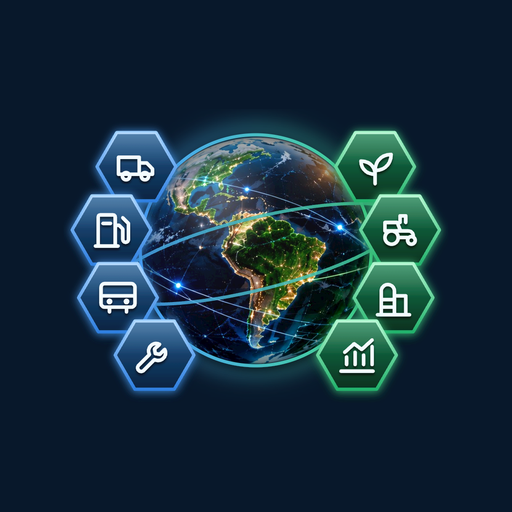
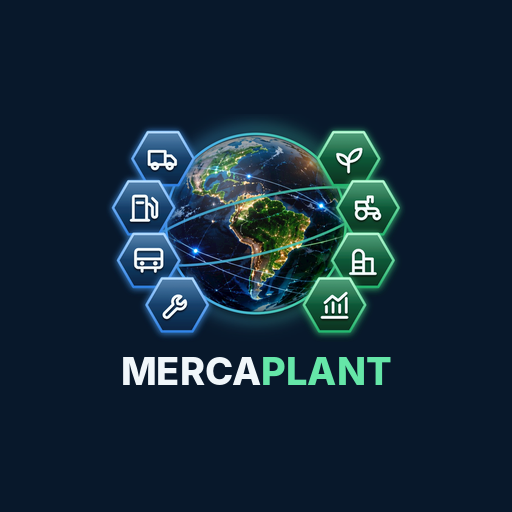
0.41.0-beta1: ícone MercaPlant, enviar PDF e aviso de versão nova do APK
- ícones (PWA, maskable e Android adaptativo) com o globo e o nome MERCAPLANT
- "Enviar PDF (WhatsApp)": AndroidBridge.sharePdf (FileProvider + ACTION_SEND) e Web Share API com arquivo; sem suporte, baixa
- APK confere releases/latest do GitHub e mostra aviso com link direto; workflow publica o APK em Releases a cada push na main
- assinatura fixa opcional via segredos do GitHub
- testes: envio do PDF, comparação de versões e versão do menu = versão do APK

Claude-Session: https://claude.ai/code/session_01RTpXCU27BZdFPunpuvUGwy

Changed region(s): [[0.125, 0.25, 0.875, 0.7812]]

diff --git a/app/src/main/assets/www/app.js b/app/src/main/assets/www/app.js
@@ -720,7 +720,7 @@ function dadosRelatorio() {
 }
 VIEWS.relatorios = () => {
   const {from, ops, byType, maxType, hoursBy, maxH, consumption, custosManut, maintCost, outrosGastos, area} = dadosRelatorio();
-  return head('Relatórios', `Resumo dos últimos ${reportDays} dias (desde ${fmtDate(from)})`, btn('Baixar relatório (PDF)', 'relatorio-pdf') + btn('Exportar operações (CSV)', 'csv', 'operations', 'secondary') + btn('Exportar estoque (CSV)', 'csv', 'stock', 'secondary')) +
+  return head('Relatórios', `Resumo dos últimos ${reportDays} dias (desde ${fmtDate(from)})`, btn('Baixar relatório (PDF)', 'relatorio-pdf') + btn('Enviar PDF (WhatsApp)', 'relatorio-pdf-enviar', '', 'secondary') + btn('Exportar operações (CSV)', 'csv', 'operations', 'secondary') + btn('Exportar estoque (CSV)', 'csv', 'stock', 'secondary')) +
     `<div class="filters">${[7, 30, 90, 365].map(d => `<button class="${d === reportDays ? 'active' : ''}" data-act="rep-days" data-id="${d}">${d === 365 ? '12 meses' : d + ' dias'}</button>`).join('')}</div>
     <section class="kpis">
       <article class="card kpi"><div class="label">Operações no período</div><div class="value">${ops.length}</div><div class="hint">${ops.filter(o => o.status === 'Concluída').length} concluídas</div></article>
@@ -990,4 +990,32 @@ if ('serviceWorker' in navigator && !window.AndroidBridge) addEventListener('loa
     bar.querySelector('button').onclick = () => location.reload();
     document.body.append(bar);
   });
+});
+// App Android (APK): confere no GitHub se há versão mais nova publicada e oferece o download
+const APK_RELEASES = 'https://api.github.com/repos/Simulagamer-ofc/AgroOperacoes/releases/latest';
+const versaoNums = v => (String(v).match(/\d+/g) || []).map(Number);
+function versaoMaior(a, b) {
+  const x = versaoNums(a), y = versaoNums(b);
+  for (let i = 0; i < Math.max(x.length, y.length); i++) { const d = (x[i] || 0) - (y[i] || 0); if (d) return d > 0; }
+  return false;
+}
+function avisoApk(instalada) {
+  let nova = null; try { nova = JSON.parse(safeStorage.get('agro-apk-nova') || 'null'); } catch { nova = null; }
+  if (!nova || !versaoMaior(nova.versao, instalada) || safeStorage.get('agro-apk-dispensado') === nova.versao || document.getElementById('novaVersaoApk')) return;
+  const bar = Object.assign(document.createElement('div'), {id: 'novaVersaoApk', className: 'nova-versao', role: 'status'});
+  bar.innerHTML = `<span>Nova versão do app: <b>${esc(nova.versao)}</b> (você tem ${esc(instalada)}).</span><a class="nova-versao-baixar" href="${esc(nova.url)}">Baixar</a><button type="button" class="nova-versao-fechar" aria-label="Depois">✕</button>`;
+  bar.querySelector('.nova-versao-fechar').onclick = () => { safeStorage.set('agro-apk-dispensado', nova.versao); bar.remove(); };
+  document.body.append(bar);
+}
+if (window.AndroidBridge?.appVersion) addEventListener('load', () => {
+  const instalada = window.AndroidBridge.appVersion(); if (!instalada) return;
+  avisoApk(instalada);
+  if (navigator.onLine === false || Date.now() - Number(safeStorage.get('agro-apk-conferido') || 0) < 6 * 3600000) return;
+  fetch(APK_RELEASES, {headers: {Accept: 'application/vnd.github+json'}}).then(r => r.ok ? r.json() : null).then(rel => {
+    if (!rel?.tag_name) return;
+    const apk = (rel.assets || []).find(a => /\.apk$/i.test(a.name));
+    safeStorage.set('agro-apk-nova', JSON.stringify({versao: rel.tag_name.replace(/^v/i, ''), url: apk?.browser_download_url || rel.html_url}));
+    safeStorage.set('agro-apk-conferido', String(Date.now()));
+    avisoApk(instalada);
+  }).catch(() => {});
 });

diff --git a/referencias/tests/relatorio-pdf.test.js b/referencias/tests/relatorio-pdf.test.js
@@ -11,11 +11,11 @@ class Doc {
   setProperties() {} setFont() {} setFontSize() {} setTextColor() {} setFillColor() {} setDrawColor() {} setLineWidth() {} setCharSpace() {}
   text(t) { this.textos.push(String(t)); } rect() {} line() {} roundedRect() { this.barras++; }
   getTextWidth(t) { return String(t).length * 2; } splitTextToSize(t) { return [String(t)]; }
-  addPage() { this.pags++; } getNumberOfPages() { return this.pags; } setPage() {} output() { return new ArrayBuffer(4); }
+  addPage() { this.pags++; } getNumberOfPages() { return this.pags; } setPage() {} output(t) { return t === 'datauristring' ? 'data:application/pdf;base64,QUJD' : new ArrayBuffer(4); }
 }
-function gerar({financeiro, tipos}) {
+function gerar({financeiro, tipos, enviar = false, ponte}) {
   const ops = tipos.map((t, i) => ({date: '2026-10-1' + i, type: t, status: 'Concluída', area: 10, machineId: 'm1'}));
-  const ctx = vm.createContext({window: {jspdf: {jsPDF: Doc}}, ACTIONS: {}, db: {settings: {farm: 'Fazenda Teste', owner: 'Edson'}},
+  const ctx = vm.createContext({window: {jspdf: {jsPDF: Doc}, AndroidBridge: ponte}, ACTIONS: {}, db: {settings: {farm: 'Fazenda Teste', owner: 'Edson'}},
     reportDays: 30, today: () => '2026-10-19', fmtDate: d => d, num: v => String(v), byDateDesc: () => 0, opPlace: () => 'Talhão 1',
     machineName: () => 'Trator', opTemArea: () => true, showToast() {}, downloadFile() {},
     relVerCustos: () => financeiro, lancamentosCusto: () => [{value: 100, category: 'Combustível'}, {value: 50, category: 'Peças'}],
@@ -23,7 +23,7 @@ function gerar({financeiro, tipos}) {
     dadosRelatorio: () => ({from: '2026-09-20', ops, byType: [...new Set(tipos)].map(t => [t, ops.filter(o => o.type === t)]),
       hoursBy: [[{name: 'Trator'}, 12]], consumption: [], custosManut: [], maintCost: 0, outrosGastos: 150, area: 20})});
   vm.runInContext(src, ctx);
-  return ctx.ACTIONS['relatorio-pdf']();
+  return ctx.ACTIONS[enviar ? 'relatorio-pdf-enviar' : 'relatorio-pdf']();
 }
 test('PDF: gráfico só quando há o que comparar e custos só para quem vê o Financeiro', () => {
   const com = gerar({financeiro: true, tipos: ['Plantio', 'Colheita', 'Colheita']});
@@ -33,4 +33,14 @@ test('PDF: gráfico só quando há o que comparar e custos só para quem vê o F
   const sem = gerar({financeiro: false, tipos: ['Plantio']});
   assert.doesNotMatch(sem.textos.join('\n'), /R\$|Custos por categoria|Manutenção/);
   assert.ok(com.barras > sem.barras, 'com 2 tipos de operação deve desenhar o gráfico');
+});
+
+test('PDF: "Enviar" abre o compartilhar do Android com o arquivo; "Baixar" salva', () => {
+  const chamadas = [];
+  const ponte = {sharePdf: (n, b64, txt) => chamadas.push(['enviar', n, b64, txt]), savePdf: (n, b64) => chamadas.push(['salvar', n, b64])};
+  gerar({financeiro: true, tipos: ['Plantio'], enviar: true, ponte});
+  gerar({financeiro: true, tipos: ['Plantio'], enviar: false, ponte});
+  assert.equal(chamadas[0][0], 'enviar'); assert.match(chamadas[0][1], /^mercaplant-relatorio-.*\.pdf$/); assert.equal(chamadas[0][2], 'QUJD');
+  assert.match(chamadas[0][3], /Fazenda Teste/);
+  assert.equal(chamadas[1][0], 'salvar');
 });

diff --git a/app/src/main/assets/www/relatorio-pdf.js b/app/src/main/assets/www/relatorio-pdf.js
@@ -11,7 +11,31 @@
   // Fontes padrão do PDF usam a tabela Latin-1: acentos funcionam; o resto vira equivalente simples
   const texto = v => String(v ?? '').replace(/[\u0000-\u001f]/g, ' ').replace(/[—–]/g, '-').replace(/[“”]/g, '"').replace(/[‘’]/g, "'").replace(/…/g, '...').replace(/[^ -ÿ]/g, '');
 
-  function gerar() {
+  // Entrega do PDF: baixar (salvar no aparelho) ou enviar (WhatsApp, e-mail…). Usado também por outros relatórios.
+  function entregarPdf(doc, nome, enviar, textoEnvio = '') {
+    if (enviar) {
+      if (window.AndroidBridge?.sharePdf) { window.AndroidBridge.sharePdf(nome, doc.output('datauristring').split(',')[1], textoEnvio); return; }
+      try {
+        const arq = new File([doc.output('blob')], nome, {type: 'application/pdf'});
+        if (navigator.canShare?.({files: [arq]})) {
+          navigator.share({files: [arq], title: nome, text: textoEnvio}).catch(err => { if (err?.name !== 'AbortError') { showToast('Não foi possível enviar; o PDF foi baixado.', true); entregarPdf(doc, nome, false); } });
+          return;
+        }
+      } catch { /* navegador sem envio de arquivos: baixa */ }
+      showToast('Este navegador não envia arquivos direto. O PDF foi baixado: anexe no WhatsApp pelo clipe 📎.', true);
+    }
+    if (window.AndroidBridge?.savePdf) {
+      window.AndroidBridge.savePdf(nome, doc.output('datauristring').split(',')[1]);
+    } else if (window.AndroidBridge?.printPage) {
+      // APK antigo: o novo método binário exige atualização do aplicativo.
+      showToast('Atualize o aplicativo para baixar o PDF. Você também pode baixar pelo navegador.', true);
+    } else {
+      downloadFile(nome, 'application/pdf', doc.output('arraybuffer'));
+    }
+  }
+  window.entregarPdf = entregarPdf;
+
+  function gerar(enviar = false) {
     if (typeof nvPodeRota === 'function' && !nvPodeRota('relatorios')) {
       showToast('Sua função não permite acessar os relatórios.', true); return;
     }
@@ -201,15 +225,9 @@
     }
 
     const nome = `mercaplant-relatorio-${r.from}-a-${fim}.pdf`;
-    if (window.AndroidBridge?.savePdf) {
-      window.AndroidBridge.savePdf(nome, doc.output('datauristring').split(',')[1]);
-    } else if (window.AndroidBridge?.printPage) {
-      // APK antigo: o novo método binário exige atualização do aplicativo.
-      showToast('Atualize o aplicativo para baixar o PDF. Você também pode baixar pelo navegador.', true);
-    } else {
-      downloadFile(nome, 'application/pdf', doc.output('arraybuffer'));
-    }
+    entregarPdf(doc, nome, enviar === true, `Relatório MercaPlant - ${texto(fazenda)} - ${periodo}`);
     return doc;
   }
-  ACTIONS['relatorio-pdf'] = gerar;
+  ACTIONS['relatorio-pdf'] = () => gerar(false);
+  ACTIONS['relatorio-pdf-enviar'] = () => gerar(true);
 })();

diff --git a/app/src/main/java/com/simulagamer/agrooperacoes/MainActivity.kt b/app/src/main/java/com/simulagamer/agrooperacoes/MainActivity.kt
@@ -118,6 +118,35 @@ class MainActivity : AppCompatActivity() {
             }
         }
 
+        /** Envia o PDF por WhatsApp, e-mail etc.: grava no cache e abre o "Compartilhar" do Android. */
+        @JavascriptInterface
+        fun sharePdf(name: String, base64: String, texto: String) {
+            val bytes = runCatching { android.util.Base64.decode(base64, android.util.Base64.DEFAULT) }.getOrNull() ?: return
+            runOnUiThread {
+                runCatching {
+                    val pasta = File(cacheDir, "compartilhar").apply { mkdirs() }
+                    pasta.listFiles()?.filter { System.currentTimeMillis() - it.lastModified() > 86_400_000L }?.forEach { it.delete() }
+                    val seguro = name.replace(Regex("[^A-Za-z0-9._-]"), "_")
+                    val arquivo = File(pasta, seguro).apply { writeBytes(bytes) }
+                    val uri = FileProvider.getUriForFile(this@MainActivity, "$packageName.fotos", arquivo)
+                    val envio = Intent(Intent.ACTION_SEND).apply {
+                        type = "application/pdf"
+                        putExtra(Intent.EXTRA_STREAM, uri)
+                        putExtra(Intent.EXTRA_SUBJECT, name)
+                        if (texto.isNotBlank()) putExtra(Intent.EXTRA_TEXT, texto)
+                        addFlags(Intent.FLAG_GRANT_READ_URI_PERMISSION)
+                    }
+                    startActivity(Intent.createChooser(envio, "Enviar relatório"))
+                }.onFailure {
+                    webView.evaluateJavascript("window.showToast && showToast('Não foi possível abrir o envio do PDF.', true)", null)
+                }
+            }
+        }
+
+        /** Versão instalada do APK (para avisar quando houver uma mais nova). */
+        @JavascriptInterface
+        fun appVersion(): String = runCatching { packageManager.getPackageInfo(packageName, 0).versionName ?: "" }.getOrDefault("")
+
         /** Imprime a página atual (relatório de aferição) ou salva como PDF pelo serviço de impressão do Android. */
         @JavascriptInterface
         fun printPage() {

diff --git a/referencias/tests/versao-apk.test.js b/referencias/tests/versao-apk.test.js
@@ -1,0 +1,23 @@
+'use strict';
+const test = require('node:test');
+const assert = require('node:assert/strict');
+const fs = require('node:fs');
+const path = require('node:path');
+const vm = require('node:vm');
+const src = fs.readFileSync(path.join(__dirname, '../../app/src/main/assets/www/app.js'), 'utf8');
+const ctx = vm.createContext({});
+vm.runInContext(src.slice(src.indexOf('const versaoNums'), src.indexOf('function avisoApk')), ctx);
+test('versão do APK: compara números, inclusive o beta', () => {
+  const maior = (a, b) => vm.runInContext(`versaoMaior(${JSON.stringify(a)}, ${JSON.stringify(b)})`, ctx);
+  assert.equal(maior('0.40.1-beta1', '0.40.0-beta1'), true);
+  assert.equal(maior('0.40.0-beta2', '0.40.0-beta1'), true);
+  assert.equal(maior('0.41.0-beta1', '0.40.9-beta3'), true);
+  assert.equal(maior('0.40.0-beta1', '0.40.0-beta1'), false);
+  assert.equal(maior('0.39.4-beta1', '0.40.0-beta1'), false);
+});
+test('versão do app e da publicação: build.gradle é a referência do aviso', () => {
+  const gradle = fs.readFileSync(path.join(__dirname, '../../app/build.gradle.kts'), 'utf8');
+  const html = fs.readFileSync(path.join(__dirname, '../../app/src/main/assets/www/index.html'), 'utf8');
+  const v = gradle.match(/versionName = "(.*)"/)[1];
+  assert.match(html, new RegExp(`>v${v.replace(/\./g, '\\.')}<`), 'a versão mostrada no menu deve ser a mesma do APK');
+});

diff --git a/app/src/main/assets/www/sw.js b/app/src/main/assets/www/sw.js
@@ -1,4 +1,4 @@
-const CACHE = "agro-ops-v76";
+const CACHE = "agro-ops-v77";
 const ASSETS = ["./", "index.html", "styles.css", "splash.js", "img/nexus-globo.jpg", "app.js", "lib/jspdf.umd.min.js", "relatorio-pdf.js", "icones.js", "avaliador.js", "inteligencia.js", "afericao.js", "inspecao.js", "secagem.js", "gastos.js", "estoque.js", "ubs.js", "combustivel.js", "financeiro.js", "producao.js", "lib/qrcode.js", "lib/webp/webp_enc.js", "lib/webp/webp_enc.wasm", "rastreio.js", "campo.js", "nfe.js", "sync.js", "nuvem.js", "mapa.js", "lcdpr.js", "graficos.js", "automacao.js", "comparativo.js", "graos.js", "referencias.js", "fotos.js", "agronomo.js", "visual.js", "catalogo.js", "maqconfig.js", "pontas.js", "dados/pontas.json", "dados/regras-afericao.json", "dados/catalogo-modelos.json", "dados/finame.json", "dados/marcas.json", "manifest.webmanifest", "icon.svg", "img/centro-operacoes.jpg", "img/logo-nexus.png", "icon-192.png", "icon-512.png", "icon-maskable-512.png"];
 self.addEventListener("install", event => event.waitUntil(caches.open(CACHE).then(cache => cache.addAll(ASSETS)).then(() => self.skipWaiting())));
 self.addEventListener("activate", event => event.waitUntil(caches.keys().then(keys => Promise.all(keys.filter(key => key !== CACHE).map(key => caches.delete(key)))).then(() => self.clients.claim())));

diff --git a/app/src/main/assets/www/styles.css b/app/src/main/assets/www/styles.css
@@ -562,6 +562,8 @@ body{background:var(--bg)}
 .insp-itens li:has(label){list-style:none;margin-left:-18px}
 /* Aviso de nova versão */
 .nova-versao{position:fixed;left:50%;bottom:calc(80px + env(safe-area-inset-bottom));transform:translateX(-50%);z-index:30;display:flex;gap:12px;align-items:center;background:#0f3550;color:#fff;border:1px solid #2b6c8f;border-radius:14px;padding:10px 12px 10px 16px;box-shadow:0 12px 30px rgba(0,0,0,.35);font-size:.92rem;max-width:calc(100% - 24px)}
+.nova-versao-baixar{background:var(--green);color:#fff;border-radius:10px;padding:8px 14px;font-weight:700;text-decoration:none;white-space:nowrap}
+.nova-versao .nova-versao-fechar{background:transparent;color:#cfe3ee;padding:6px 8px;font-weight:400}
 .nova-versao button{background:var(--green);color:#fff;border:0;border-radius:10px;padding:8px 12px;font-weight:700;cursor:pointer;white-space:nowrap}
 /* Visão geral: Hoje (o que fazer) e clima */
 .hoje{display:grid;grid-template-columns:minmax(0,1.3fr) minmax(0,1fr);gap:14px;margin-bottom:16px}

diff --git a/app/src/main/assets/www/index.html b/app/src/main/assets/www/index.html
@@ -35,7 +35,7 @@
 </div>
 <div class="app">
   <aside class="sidebar" id="sidebar">
-    <div class="brand nexus"><strong class="marca">MERCA<span>PLANT</span></strong><small class="versao" title="Versão de teste 0.40.0-beta1">v0.40.0-beta1</small><small id="farmName">Minha fazenda</small></div>
+    <div class="brand nexus"><strong class="marca">MERCA<span>PLANT</span></strong><small class="versao" title="Versão de teste 0.41.0-beta1">v0.41.0-beta1</small><small id="farmName">Minha fazenda</small></div>
     <nav class="nav" aria-label="Menu principal">
       <button data-route="inicio"><span class="icon">▦</span>Visão geral</button>
       <small class="nav-grupo">Campo</small>

diff --git a/README.md b/README.md
@@ -4,6 +4,12 @@ Aplicativo Android offline para operações agrícolas, máquinas, manutenção,
 
 ## Versão atual
 
+`0.41.0-beta1` — **Ícone, envio do PDF e atualização do app**:
+- **Ícone** com o globo e o nome **MERCAPLANT** (Android, tela inicial do celular e navegador).
+- **Enviar PDF (WhatsApp)** em Relatórios: abre o "Compartilhar" do celular com o arquivo (WhatsApp, e-mail, Drive). No computador sem esse recurso, o PDF é baixado para anexar.
+- **Aviso de versão nova no app Android**: o app confere a página de versões do GitHub e mostra "Nova versão do app — Baixar". A cada mesclagem na `main`, o APK é publicado em *Releases* com link direto (sem login).
+- Preparado para **assinatura fixa** do APK (segredos `MERCAPLANT_KEYSTORE_B64`, `MERCAPLANT_KEYSTORE_PASS`, `MERCAPLANT_KEY_ALIAS`, `MERCAPLANT_KEY_PASS`): com ela, a versão nova instala por cima sem desinstalar.
+
 `0.40.0-beta1` — **Relatório em PDF profissional**: cabeçalho com a marca MercaPlant, fazenda e período; cartões de resumo; **gráficos de barras** de operações por tipo, horas por máquina e custos por categoria (aparecem quando há 2 itens ou mais para comparar; com 1 item sai só a tabela); tabelas com cabeçalho verde, linhas alternadas e cabeçalho repetido nas páginas seguintes; detalhamento das operações em tabela; assinaturas do responsável e do responsável técnico; rodapé com data de emissão e "Página X de Y". Custos e gráfico de custos só para quem tem acesso ao Financeiro. Continua offline.
 
 `0.39.4-beta1` — **Previsão dia a dia**: na previsão de 7 dias, cada dia agora é tocável. O dia escolhido mostra madrugada, manhã, tarde e noite, as boas horas para pulverizar, a chuva prevista e se a previsão está incerta; "voltar para hoje" retorna ao dia atual.
